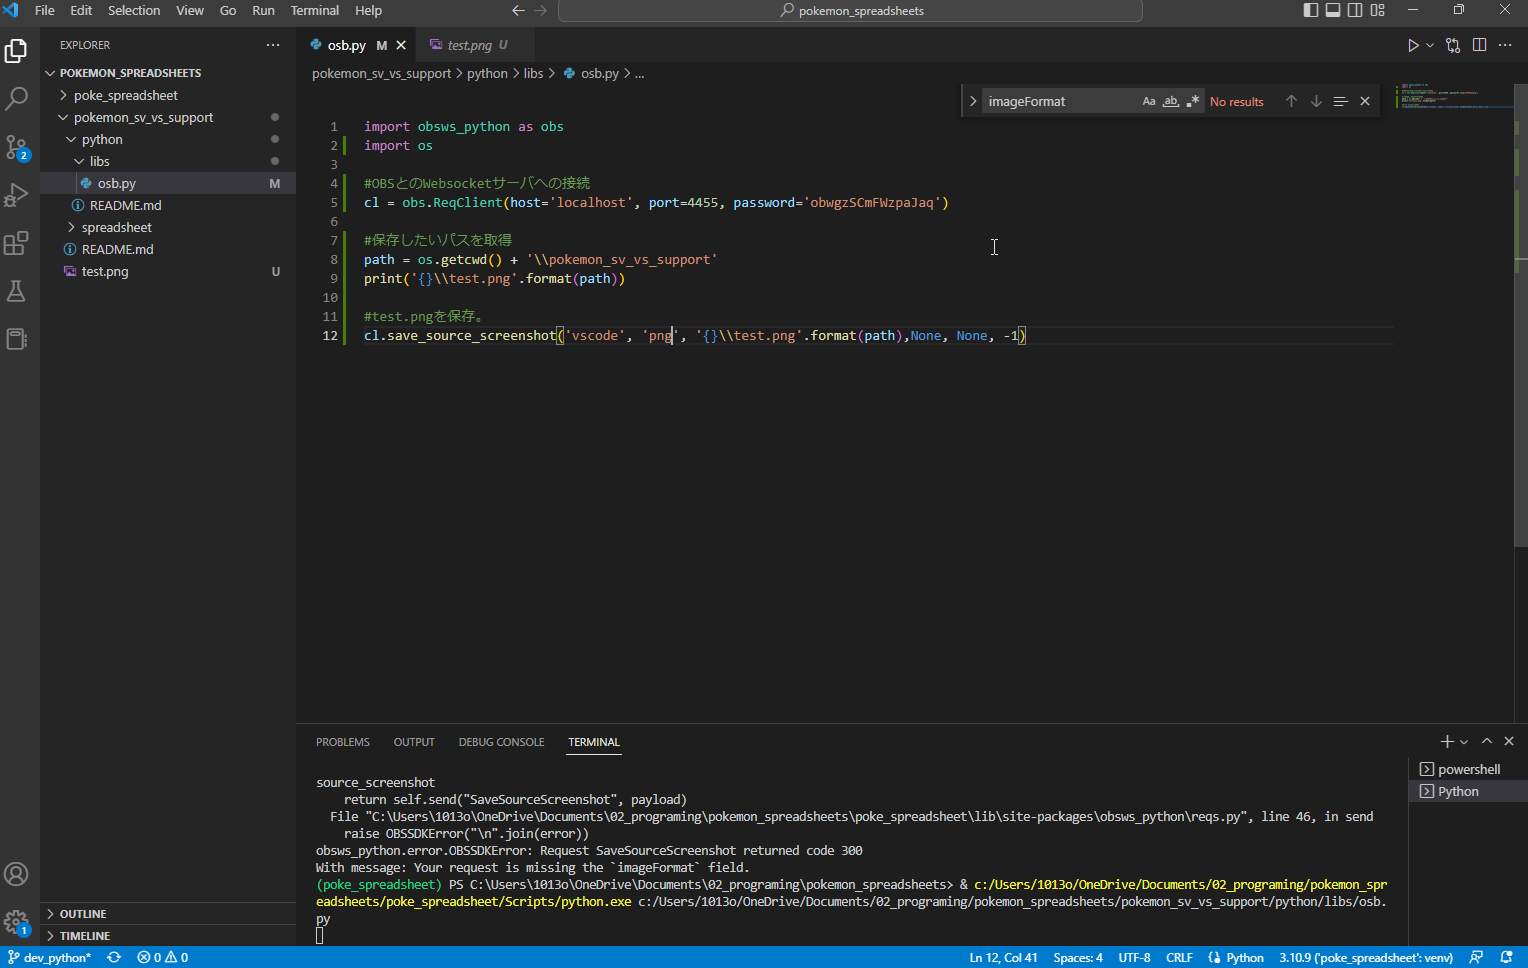
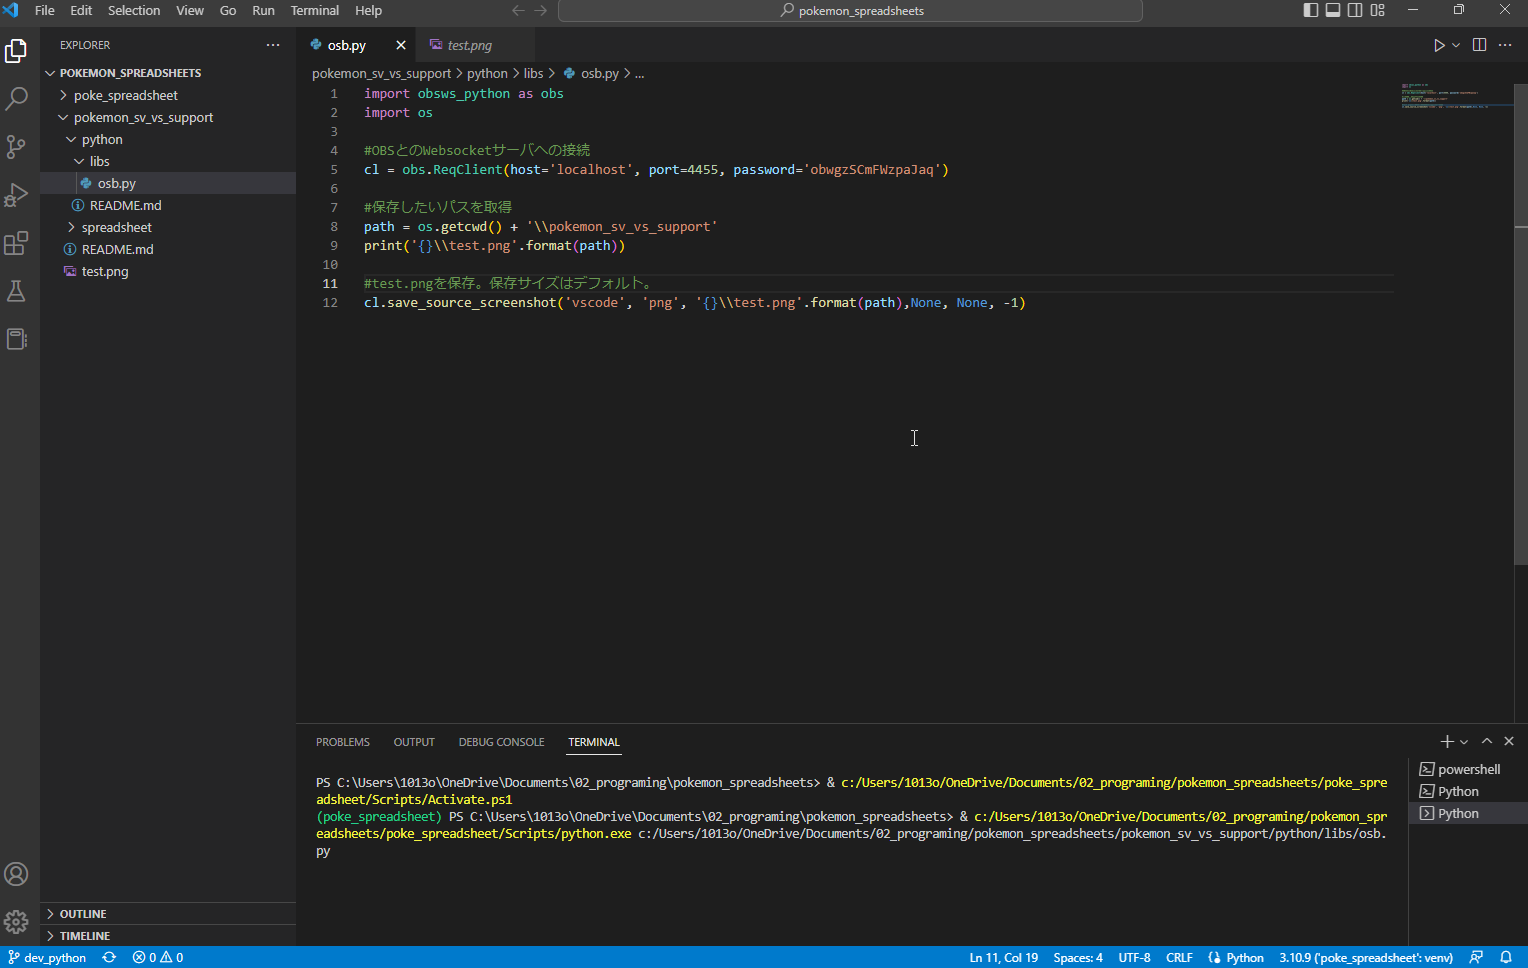
対戦ログ分析用のgsファイルを追加

diff --git a/spreadsheet/コーディング用メモ.md b/spreadsheet/コーディング用メモ.md
@@ -1,0 +1,43 @@
+# やりたいこと
+以下の値をGASで集計し、算出する
+- チーム数
+- 選出数
+- 先発数
+- 勝利数
+  - パーティとしての勝利数
+  - 選出しての勝利数
+  - 先発での勝利数
+
+# ロジック考察
+集計では、
+- ポケモン名をカウントする
+- 勝利数をカウントする
+の2つがある。
+
+その他考慮すべき点は以下
+- チームIDでフィルタリング
+- timestampでフィルタリング
+- 不要な割合計算式は削除
+
+## ポケモン数カウント方法
+特定範囲内に含まれるポケモン名をカウントする。
+1. log内のポケモン名をユニークに取得
+1. 特定範囲内における、上記ユニークポケモン名のカウントを取得
+1. 集計シートに出力
+
+## 勝利数カウント方法
+特定範囲内にあるポケモン名が含まれる場合に、勝敗をカウントする。
+1. log内のポケモンをユニークに取得
+1. 特定範囲内にポケモン名がるか確認
+1. ポケモン名があった場合、勝敗を確認。勝利なら1敗北なら0を取得
+1. 上記勝敗を合計
+1. 集計シートに出力
+
+## チームIDでのフィルタリング方法
+チームID記入せるの値を取得。logシート中のチームIDと一致するデータのみを取得。以降は上記処理と同じ。
+
+## timestampでのフィルタリング方法
+timestampの範囲を取得。logシート中のtimestampの条件範囲内のデータのみを取得。以降は上記処理と同じ
+
+## 割合式の記述方法
+選出率も数値で出してしまってもよいかも。
